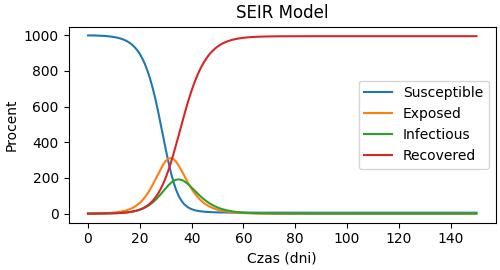
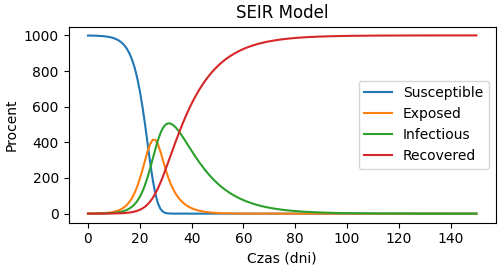
Lista 5 gotowa

diff --git a/lista4/seir.py b/lista4/seir.py
@@ -64,7 +64,7 @@ def seir_model(n0, s, e, i, r,beta, sigma, gamma):
 
     x = np.array(range(0,time+1))
     
-    plot = plt.figure(figsize=(5,2.7), layout="constrained")
+    """plot = plt.figure(figsize=(5,2.7), layout="constrained")
     plt.plot(x,tablica_S, label="Susceptible")
     plt.plot(x,tablica_E, label="Exposed")
     plt.plot(x,tablica_I, label="Infectious")
@@ -74,7 +74,7 @@ def seir_model(n0, s, e, i, r,beta, sigma, gamma):
     plt.title("SEIR Model")
     plt.legend()
     plt.show()
-    return plot
+    """
     
 
 
@@ -86,11 +86,12 @@ if __name__ == "__main__":
         tab_arg[i] = float(tab_arg[i])
     #print(tab_arg)
 
-    
     #n0, s, e, i, r, beta, sigma, gamma = tab_arg #wartości początkowe
+    #seir_model(n0,s,e,i,r,beta,sigma,gamma)
+    
     r = seir_model(1000,999,1,0,0, 1.34,0.19,0.34)
     r.savefig("standard.png")
     seir_model(1000,999,1,0,0, 0.75,0.19,0.34).savefig("beta_0.75_.png")
     seir_model(1000,999,1,0,0, 1.34,0.10,0.34).savefig("sigma_0.10_.png")
-    seir_model(1000,999,1,0,0, 1.34,0.19,0.28).savefig("gamma_0.28_.png")
+    seir_model(1000,999,1,0,0, 1.34,0.19,0.08).savefig("gamma_0.28_.png")
     

diff --git a/lista5/kursy_walut.py b/lista5/kursy_walut.py
@@ -55,7 +55,10 @@ def zmiana_clicked():
 def oblicz_clicked():
     curr_in = combo_opcja1.get()
     curr_out = combo_opcja2.get()
-    value = float(entry_waluta.get())
+    try:
+        value = float(entry_waluta.get())
+    except:
+        wynik.set("Podano niepoprawną wartość")
     print(curr_in,curr_out,value)
     output = przelicz(curr_in, curr_out, value)
     wynik.set(output)
@@ -122,7 +125,7 @@ label_wynik = Label(right_frame, textvariable=wynik)
 label_wynik.pack(padx=30,pady=20)
 
 
-button_zakoncz = Button(right_frame, text="zakończ")
+button_zakoncz = Button(right_frame, text="zakończ", command=exit)
 button_zakoncz.pack()
 
 #======================================================================================

diff --git a/lista4/seir_wrapper.py b/lista4/seir_wrapper.py
@@ -1,4 +1,4 @@
-import seir 
+import seir
 import sys
 
 #ustawienie domyślnych wartosci
@@ -7,15 +7,17 @@ s=999
 e=1
 i=0
 r=0
-beta = 0.8
-sigma = 0.7
-gamma = 0.4
+beta = 1.34
+sigma = 0.19
+gamma = 0.34
 
-tab_arg = sys.argv
+tab_arg = list(sys.argv)
 tab_arg.remove(tab_arg[0])
 
 
 #to boli w oczy, ale to działa
+
+print(len(tab_arg))
 if len(tab_arg)%2==0:
     while len(tab_arg)>1:
         arg = tab_arg.pop()
@@ -35,6 +37,7 @@ if len(tab_arg)%2==0:
             i = float(tab_arg.pop())
         elif 'r' in arg or 'R' in arg:
             e = float(tab_arg.pop())
+        print(n,s,e,i,r,beta,sigma,gamma)            
 
-seir.seir_model(n,s,e,i,r,beta,sigma,gamma)
+#seir.seir_model(n,s,e,i,r,beta,sigma,gamma)
 
